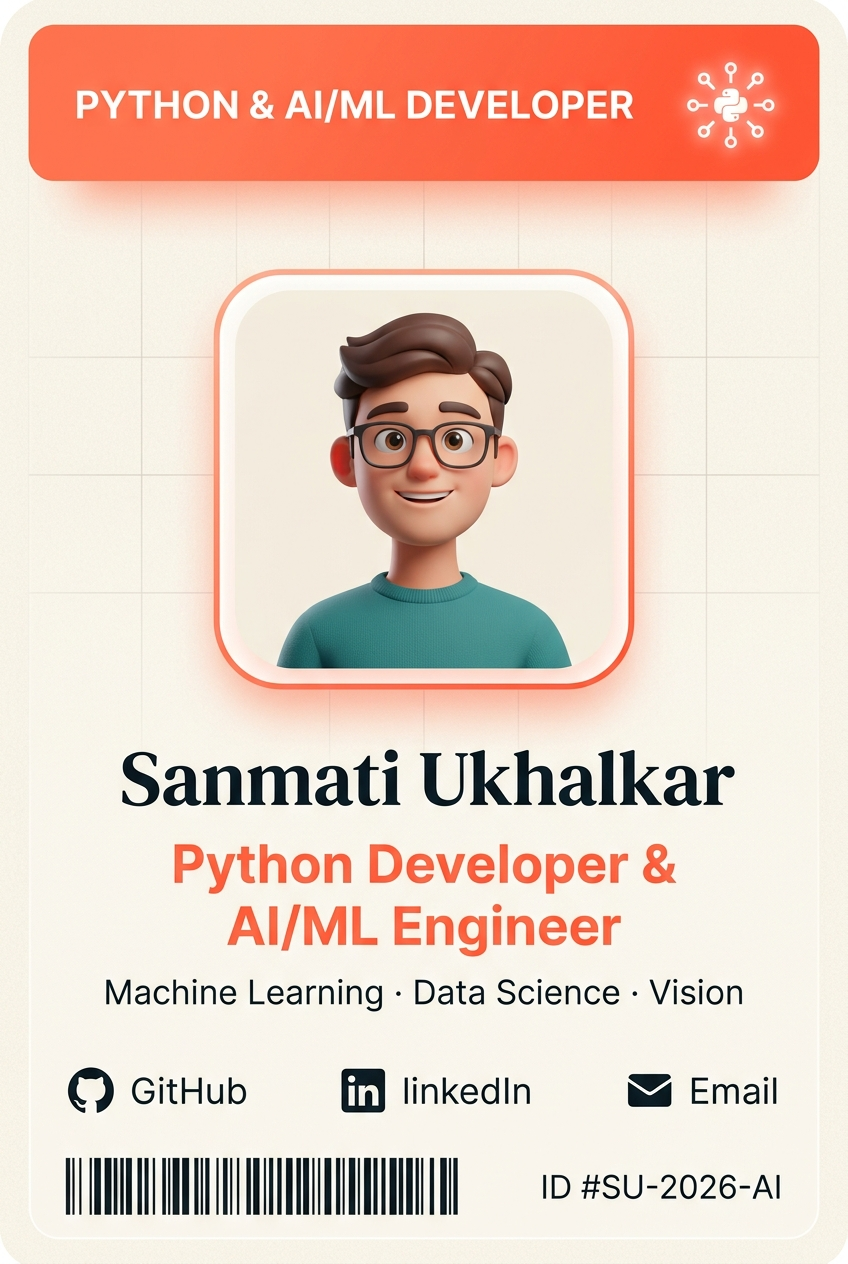
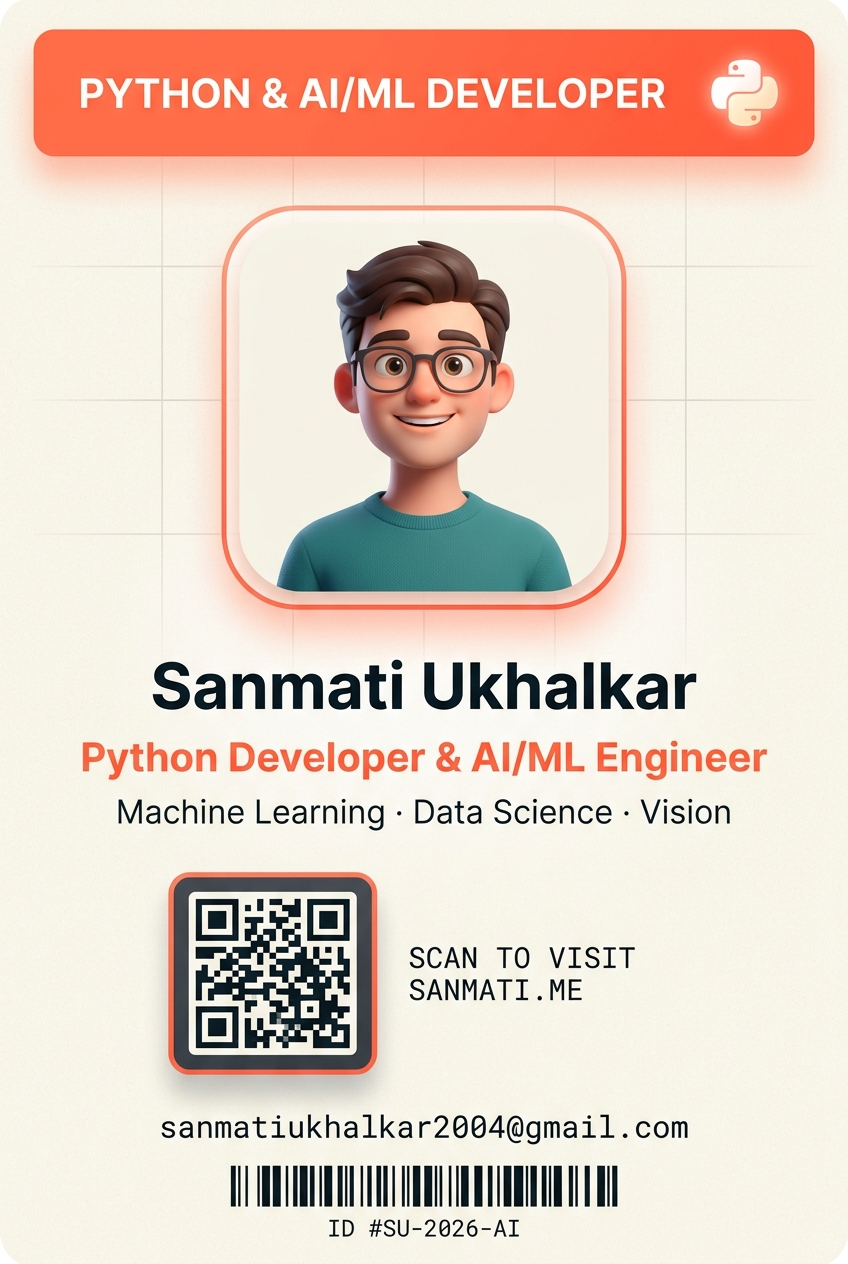
assets(lanyard): update ID card front asset and bump cache-buster query parameter

Changed region(s): [[0.0307, 0.0, 0.9811, 0.9873], [0.7358, 0.8331, 0.9198, 0.8948], [0.7665, 0.7714, 0.8892, 0.8022]]

diff --git a/src/components/About.tsx b/src/components/About.tsx
@@ -44,7 +44,7 @@ const About = () => {
         {/* Right — full height lanyard */}
         <div className="w-1/2 flex-shrink-0" style={{ height: '100vh' }}>
           <Suspense fallback={<Spinner />}>
-            <Lanyard frontImage="/images/id_card_front.png?v=3" />
+            <Lanyard frontImage="/images/id_card_front.png?v=4" />
           </Suspense>
         </div>
       </div>
@@ -59,7 +59,7 @@ const About = () => {
               <Spinner />
             </div>
           }>
-            <Lanyard frontImage="/images/id_card_front.png?v=3" />
+            <Lanyard frontImage="/images/id_card_front.png?v=4" />
           </Suspense>
         </div>
 

diff --git a/src/components/Lanyard.tsx b/src/components/Lanyard.tsx
@@ -5,7 +5,7 @@ interface LanyardProps {
   frontImage?: string | null;
 }
 
-export default function Lanyard({ frontImage = '/images/id_card_front.png?v=3' }: LanyardProps) {
+export default function Lanyard({ frontImage = '/images/id_card_front.png?v=4' }: LanyardProps) {
   const containerRef = useRef<HTMLDivElement>(null);
 
   // Drag Motion Values
